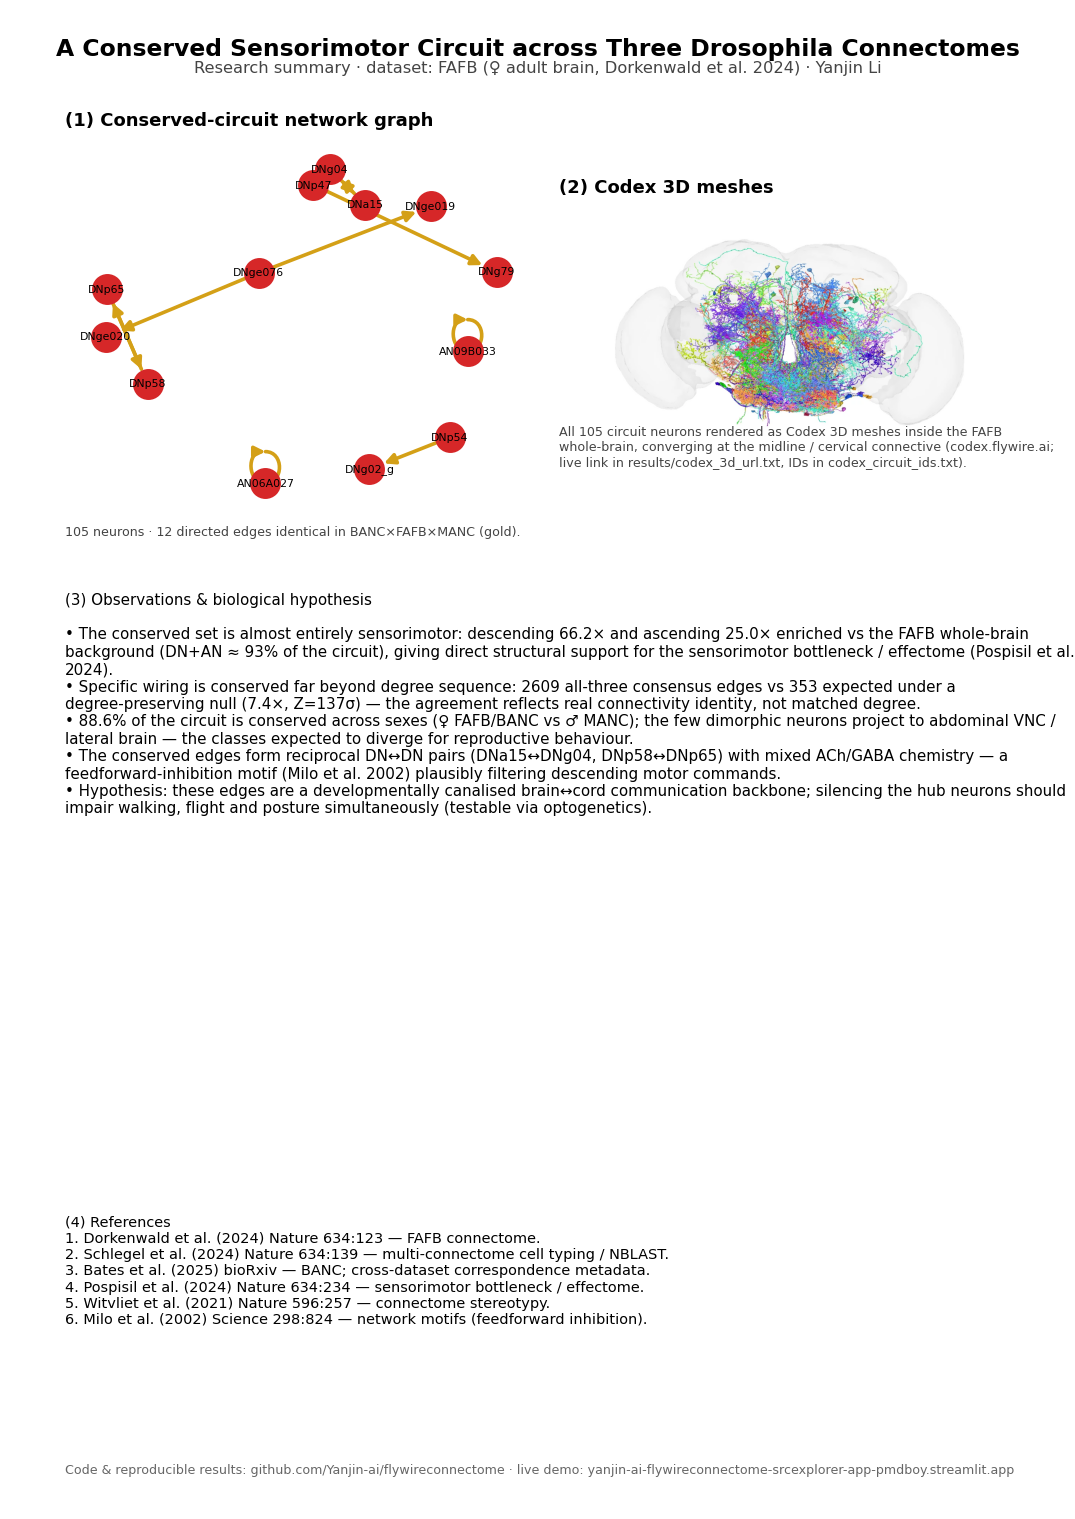
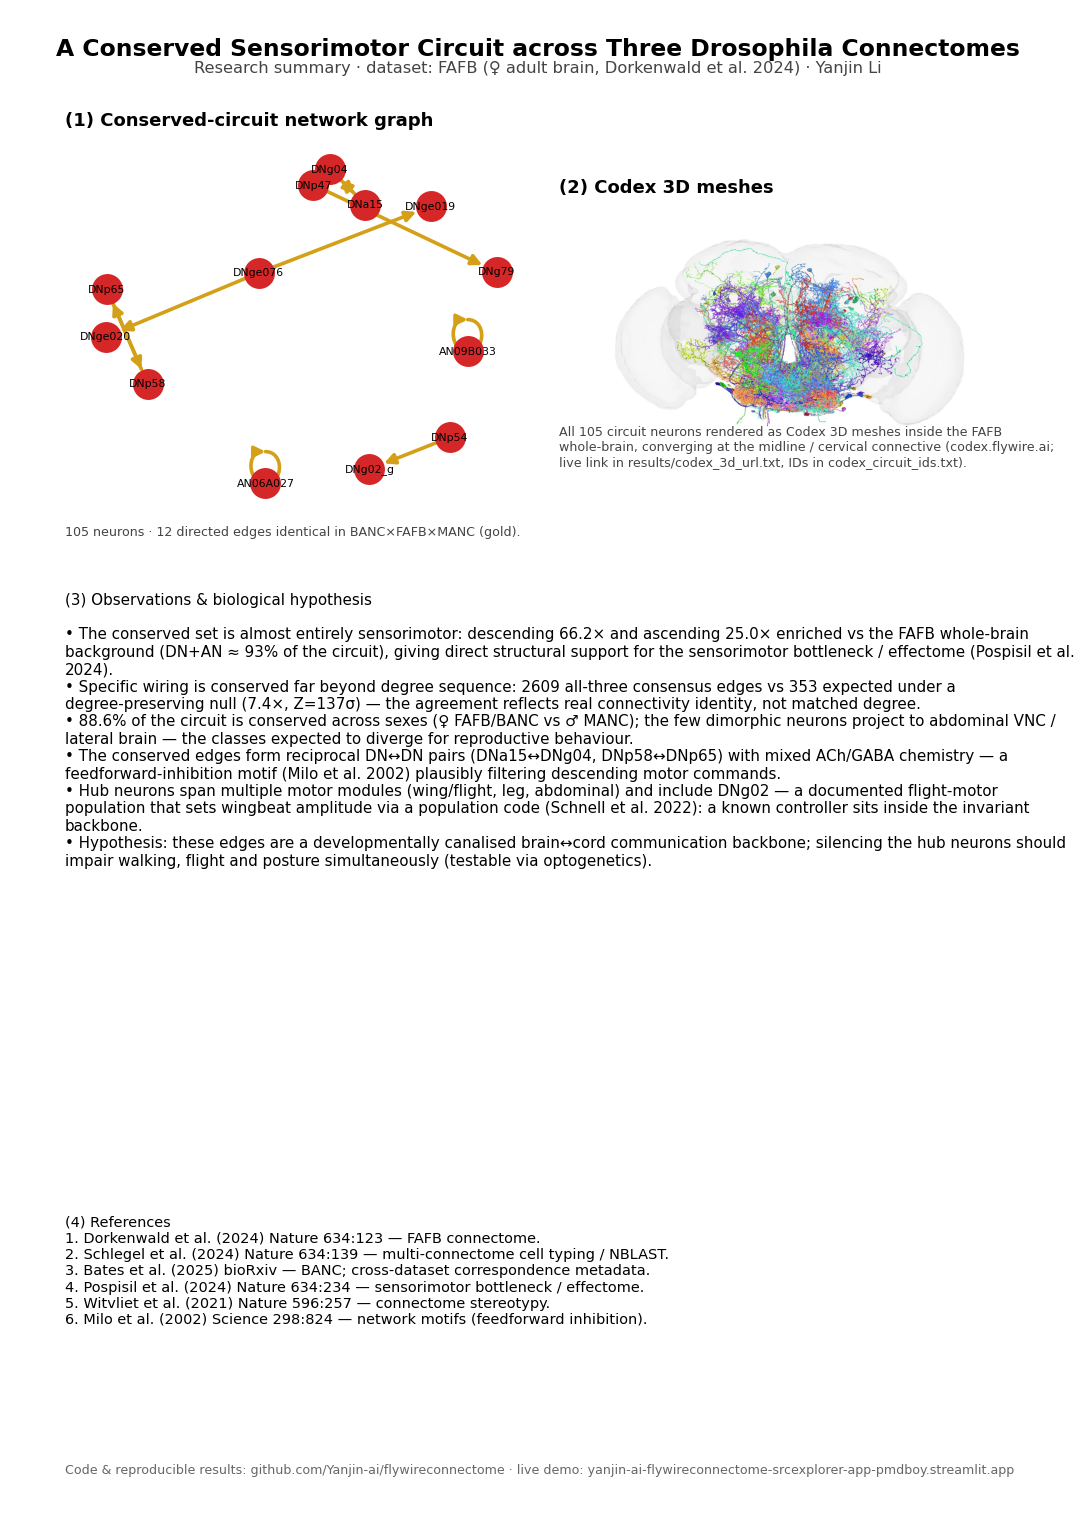
Ground hub neurons in documented function (neuroscience taste, honest)
Add §6.5: a hub-neuron table grounded in Codex annotations (cell type, NT, VNC
target) + the DN literature, explicitly separating documented single-type
function from target-inferred module. Key verified anchor: DNg02 (in the
conserved core, targets dorsal/flight neuropil) is a documented flight-motor
population that sets wingbeat amplitude via a population code (Schnell, Ros &
Dickinson 2022). The rest are mapped to motor modules (Namiki et al. 2018) with
single-type behaviour marked "not yet characterised" — no over-claiming.
- §8.1 notes a documented controller (DNg02) sits inside the invariant backbone.
- One-pager observations + refs (Namiki 2018, Schnell 2022, Cande 2018) updated.
- Fix duplicate figure-caption numbers (conservation→Fig 10, robustness→Fig 11).

Codex cell_function/effector columns are empty for these DN/AN types, so
function is grounded in target + literature only — not fabricated.

Changed region(s): [[0.0614, 0.4951, 0.9823, 0.5879]]

diff --git a/src/make_research_summary.py b/src/make_research_summary.py
@@ -141,6 +141,10 @@ def main():
         "• The conserved edges form reciprocal DN↔DN pairs (DNa15↔DNg04, "
         "DNp58↔DNp65) with mixed ACh/GABA chemistry — a feedforward-inhibition "
         "motif (Milo et al. 2002) plausibly filtering descending motor commands.\n"
+        "• Hub neurons span multiple motor modules (wing/flight, leg, abdominal) "
+        "and include DNg02 — a documented flight-motor population that sets "
+        "wingbeat amplitude via a population code (Schnell et al. 2022): a known "
+        "controller sits inside the invariant backbone.\n"
         "• Hypothesis: these edges are a developmentally canalised brain↔cord "
         "communication backbone; silencing the hub neurons should impair walking, "
         "flight and posture simultaneously (testable via optogenetics)."

diff --git a/science.md b/science.md
@@ -180,8 +180,8 @@ We answer this at the edge level ([`src/conservation_track.py`](src/conservation
 
 So while node-count MCIS is degree-explained, **specific synaptic connectivity is conserved 7.4× above the degree-sequence expectation** — strong, unambiguous evidence that the cross-connectome agreement reflects real wiring identity, not merely matched degree distributions. This reframes the contribution from a binary "conserved circuit" to a continuous **conservation track**: every neuron receives a conservation z-score (observed consensus-incident edges vs degree-null), yielding a ranked map of which neurons carry the conserved wiring (top: ANXXX108 z=35, DNge106 z=28, DNg73/AN17B008 z=21). This per-neuron track is what the Neuroglancer overlay (§10.5) colours.
 
-![Fig. 3 — Conservation track](figures/figure10_conservation_track.png)
-**Figure 3.** **(A)** Edge support across connectomes (1 / 2 / all-3). **(B)** Beyond-degree test: observed 2,609 consensus edges vs degree-preserving null 353 ± 17 (Z = 136σ). **(C)** Per-neuron conservation z-score track.
+![Fig. 10 — Conservation track](figures/figure10_conservation_track.png)
+**Figure 10.** **(A)** Edge support across connectomes (1 / 2 / all-3). **(B)** Beyond-degree test: observed 2,609 consensus edges vs degree-preserving null 353 ± 17 (Z = 136σ). **(C)** Per-neuron conservation z-score track.
 
 ### 4.7 Robustness to connectomic reconstruction error
 
@@ -196,8 +196,8 @@ Every connectome carries proofreading error. To test whether the result is an ar
 
 N **degrades gracefully** (≈ linear, no cliff): even with 20% of every connectome's edges corrupted, a 73-neuron conserved circuit survives. The conserved backbone is therefore a stable structural feature, not a fragile coincidence of the specific reconstructions.
 
-![Fig. 4 — Reconstruction-error robustness](figures/figure13_stringency.png)
-**Figure 4.** MCIS size vs per-connectome edge perturbation; graceful, near-linear decline.
+![Fig. 11 — Reconstruction-error robustness](figures/figure13_stringency.png)
+**Figure 11.** MCIS size vs per-connectome edge perturbation; graceful, near-linear decline.
 
 ---
 
@@ -251,6 +251,23 @@ The most represented developmental hemilineages among circuit neurons are LB12, 
 
 Among neurons with an annotated `cns_network` target: leg VNC (38 neurons, locomotion), dorsal VNC/flight (18), lateral brain (12), flange median bundle/whole-body coordination (11), posterior brain (8), abdominal VNC (7); 7 neurons are unannotated. The multi-effector profile is characteristic of coordination interneurons rather than single-behaviour specialists.
 
+### 6.5 Hub neurons: motor modules and documented function
+
+The 13 cell types that carry the 12 conserved edges, grounded in Codex annotations (cell type, neurotransmitter, VNC/brain target) and the descending-neuron literature. We deliberately mark documented single-type function vs target-inferred module — most individual DN/AN types are not yet behaviourally characterised, and we do not over-claim.
+
+| Hub cell type(s) | NT | Target (`cns_network`) | Motor module (Namiki et al. 2018) | Documented function |
+|---|---|---|---|---|
+| **DNg02** (DNg02_g) | ACh | dorsal VNC | wing / flight neuropil | **Yes** — a population of ≥15 pairs that regulates wingbeat amplitude and flight steering via a population code (Schnell, Ros & Dickinson 2022) |
+| DNg04, DNg79, DNa15 | ACh | dorsal VNC | wing / neck / flight | Target-inferred (dorsal motor neuropil); single-type behaviour not yet characterised |
+| DNge019, DNge020 | ACh | leg VNC | leg / locomotion | Target-inferred (leg motor circuits); not individually characterised |
+| DNp58 | ACh | abdominal VNC | abdominal / postural | Target-inferred; not individually characterised |
+| DNp47 | ACh | posterior brain | brain-targeting DN | Not individually characterised |
+| DNge076, DNp65, DNp54 | **GABA** | flange median bundle / post. brain | inhibitory DNs | Inhibitory; not individually characterised |
+| AN09B033 | ACh | (ascending) | proprioceptive feedback | Ascending; not individually characterised |
+| AN06A027 | Glu | (ascending) | proprioceptive feedback | Ascending; not individually characterised |
+
+Two observations follow. (i) The conserved core is **multi-module**: it spans wing/flight (DNg-class, dorsal VNC), leg/locomotion (DNge-class, leg VNC) and abdominal/postural (DNp58, AN06A027) effectors — consistent with a cross-program coordination backbone rather than a single-behaviour pathway. (ii) It is **anchored by a documented controller**: DNg02, the only individually characterised type in the set, is a flight-motor population — its three-way structural conservation means a known population-code flight controller sits inside the invariant backbone. The presence of GABAergic descending neurons (DNge076, DNp65, DNp54) alongside cholinergic ones gives the mixed excitatory/inhibitory chemistry expected of a feedforward-inhibition coordination motif (§8.3).
+
 ---
 
 ## 7. Sexual Conservation Analysis
@@ -289,7 +306,7 @@ Three neurotransmitter types appear among dimorphic neurons: ACh (9), Glu (2), s
 
 ### 8.1 Structural evidence for the sensorimotor bottleneck
 
-Pospisil et al. (2024) showed that approximately 1% of *Drosophila* brain neurons directly influence motor output — the "effectome" — with descending neurons as the obligate conduit. Our result provides **direct structural corroboration**: the largest isomorphic subgraph across three independent connectomes consists almost entirely of DNs and ANs (93.3% of circuit neurons). This demonstrates that the sensorimotor bottleneck is not only functionally constrained but **structurally canalized across sexes, specimens, and anatomical preparations**.
+Pospisil et al. (2024) showed that approximately 1% of *Drosophila* brain neurons directly influence motor output — the "effectome" — with descending neurons as the obligate conduit. Our result provides **direct structural corroboration**: the largest isomorphic subgraph across three independent connectomes consists almost entirely of DNs and ANs (93.3% of circuit neurons). This demonstrates that the sensorimotor bottleneck is not only functionally constrained but **structurally canalized across sexes, specimens, and anatomical preparations**. Notably, the conserved core includes **DNg02** — a documented flight-motor population that sets wingbeat amplitude through a population code (Schnell et al. 2022) — so a behaviourally characterised controller sits inside the invariant backbone (§6.5).
 
 ### 8.2 Developmental constraint as the mechanistic basis
 
@@ -387,3 +404,6 @@ These three directions are implemented in this repository (not just proposed):
 14. Maslov S. & Sneppen K. (2002) Specificity and stability in topology of protein networks. *Science* 296, 910–913. [doi:10.1126/science.1065103](https://doi.org/10.1126/science.1065103) — *Degree-preserving rewiring null model.*
 15. Lappalainen J.K. et al. (2024) Connectome-constrained networks predict neural activity across the fly visual system. *Nature* 634, 1132–1140. [doi:10.1038/s41586-024-07939-3](https://doi.org/10.1038/s41586-024-07939-3) — *Connectome-constrained mechanistic models; sparse-connectivity regime.*
 16. McCreesh C., Prosser P. & Trimble J. (2017) A partitioning algorithm for maximum common subgraph problems (McSplit). *IJCAI* 712–719. — *Modern branch-and-bound MCS solver.*
+17. Namiki S., Dickinson M.H., Wong A.M., Korff W. & Card G.M. (2018) The functional organization of descending sensory-motor pathways in *Drosophila*. *eLife* 7, e34272. [doi:10.7554/eLife.34272](https://doi.org/10.7554/eLife.34272) — *DN types and their leg/neck/wing VNC motor targets.*
+18. Schnell B., Ros I.G. & Dickinson M.H. (2022) A population of descending neurons that regulates the flight motor of *Drosophila*. *Current Biology* 32, 1189–1196. [doi:10.1016/j.cub.2022.01.007](https://doi.org/10.1016/j.cub.2022.01.007) — *DNg02 population-code control of wingbeat amplitude.*
+19. Cande J. et al. (2018) Optogenetic dissection of descending behavioral control in *Drosophila*. *eLife* 7, e34275. [doi:10.7554/eLife.34275](https://doi.org/10.7554/eLife.34275) — *DN activation → behaviour mapping.*
